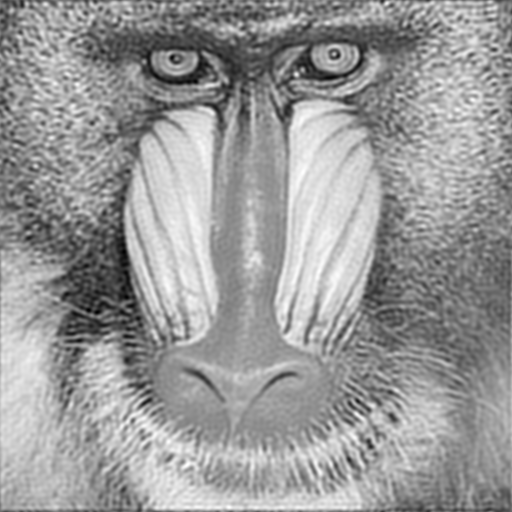
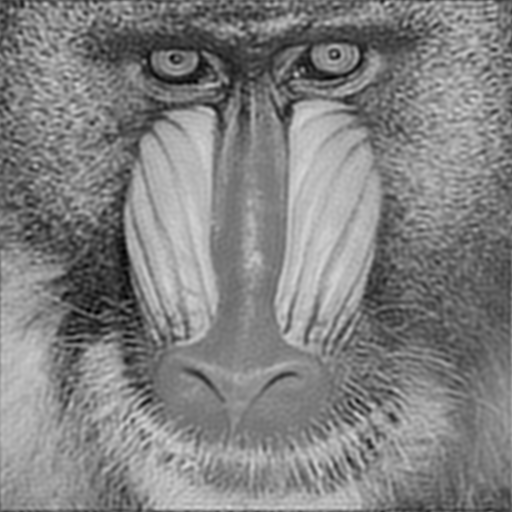
dft to fft

diff --git a/trabalho2/trabalho2.py b/trabalho2/trabalho2.py
@@ -7,23 +7,21 @@ from scipy.ndimage import rotate
 
 #aplicando transformada de fourier na imagem
 def fourier_transform(img):
-    dft = cv2.dft(np.float32(img), flags = cv2.DFT_COMPLEX_OUTPUT)
-    dft_shift = np.fft.fftshift(dft)
-    magnitude_spectrum = 20*np.log(cv2.magnitude(dft_shift[:,:,0], dft_shift[:,:,1]))
+    fft = np.fft.fft2(img)
+    fft_shift = np.fft.fftshift(fft)
+    magnitude_spectrum = 20*np.log(np.abs(fft_shift))
 
-    return dft, dft_shift, magnitude_spectrum
+    return fft, fft_shift, magnitude_spectrum
 
 #aplicando transformada reversa de fourier
-def frequency_to_espacial_domain(dft, shifted=True):
+def frequency_to_espacial_domain(fft, shifted=True):
     if shifted:
-        ifftshift = np.fft.ifftshift(dft)
+        ifftshift = np.fft.ifftshift(fft)
     else:
-        ifftshift = dft
-    espacial_img = cv2.idft(ifftshift)
-    espacial_img = cv2.magnitude(espacial_img[:,:,0], espacial_img[:,:,1])
-    espacial_img = cv2.normalize(espacial_img, None, 0, 255, cv2.NORM_MINMAX, cv2.CV_8U)
+        ifftshift = fft
+    espacial_img = np.fft.ifft2(ifftshift)
 
-    return espacial_img
+    return np.abs(espacial_img)
 
 #criação dos kernels
 def create_filters(img):
@@ -46,10 +44,10 @@ def create_filters(img):
     return passa_baixa, passa_faixa, passa_alta
 
 #aplica filtro à imagem em domínio de frequência
-def apply_filter(dft_shift, magnitude_spectrum, filter):
-    filtered_spectrum = cv2.bitwise_and(magnitude_spectrum, magnitude_spectrum, mask=filter)
+def apply_filter(fft_shift, magnitude_spectrum, filter):
+    filtered_spectrum = magnitude_spectrum * filter
 
-    filtered = cv2.bitwise_and(dft_shift, dft_shift, mask=filter)
+    filtered = fft_shift * filter
     filtered_img = frequency_to_espacial_domain(filtered)
 
     return filtered_spectrum, filtered_img
@@ -60,10 +58,10 @@ def rotate_img(img, angle):
     return rotated_img
 
 #aplica compressão à imagem em domínio de frequência
-def compress_img(dft, epsilon):
-    magnitude_spectrum = np.log(cv2.magnitude(dft[:,:,0], dft[:,:,1]))
-    dft[abs(magnitude_spectrum) < epsilon] = 0
-    return frequency_to_espacial_domain(dft, shifted=False)
+def compress_img(fft, epsilon):
+    magnitude_spectrum = np.log(np.abs(fft))
+    fft[abs(magnitude_spectrum) < epsilon] = 0
+    return frequency_to_espacial_domain(fft, shifted=False)
 
 def main():
     #read args
@@ -91,27 +89,26 @@ def main():
     #read image
     img = cv2.imread(img_name, 0)
 
-    dft, dft_shift, magnitude_spectrum = fourier_transform(img)
+    fft, fft_shift, magnitude_spectrum = fourier_transform(img)
     cv2.imwrite(output_filename[:-4]+"_espectro_magnitude"+output_filename[-4:], magnitude_spectrum)
-
 
     #aplicação dos filtros
     passa_baixa, passa_faixa, passa_alta = create_filters(img)
 
-    filtered_spectrum, filtered_img = apply_filter(dft_shift, magnitude_spectrum, passa_baixa)
+    filtered_spectrum, filtered_img = apply_filter(fft_shift, magnitude_spectrum, passa_baixa)
     cv2.imwrite(output_filename[:-4]+"_kernel_passa_baixa"+output_filename[-4:], filtered_spectrum)
     cv2.imwrite(output_filename[:-4]+"_passa_baixa"+output_filename[-4:], filtered_img)
 
-    filtered_spectrum, filtered_img = apply_filter(dft_shift, magnitude_spectrum, passa_faixa)
+    filtered_spectrum, filtered_img = apply_filter(fft_shift, magnitude_spectrum, passa_faixa)
     cv2.imwrite(output_filename[:-4]+"_kernel_passa_faixa"+output_filename[-4:], filtered_spectrum)
     cv2.imwrite(output_filename[:-4]+"_passa_faixa"+output_filename[-4:], filtered_img)
 
-    filtered_spectrum, filtered_img = apply_filter(dft_shift, magnitude_spectrum, passa_alta)
+    filtered_spectrum, filtered_img = apply_filter(fft_shift, magnitude_spectrum, passa_alta)
     cv2.imwrite(output_filename[:-4]+"_kernel_passa_alta"+output_filename[-4:], filtered_spectrum)
     cv2.imwrite(output_filename[:-4]+"_passa_alta"+output_filename[-4:], filtered_img)
 
     #compressão
-    compressed_img = compress_img(dft, compress_factor)
+    compressed_img = compress_img(fft, compress_factor)
     cv2.imwrite(output_filename[:-4]+"_compressao"+output_filename[-4:], compressed_img)
 
     #rotação
@@ -119,7 +116,7 @@ def main():
     cv2.imwrite(output_filename[:-4]+"_rotacao"+output_filename[-4:], rotated_img)
 
     #espectro rotação
-    dft, dft_shift, magnitude_spectrum = fourier_transform(rotated_img)
+    fft, fft_shift, magnitude_spectrum = fourier_transform(rotated_img)
     cv2.imwrite(output_filename[:-4]+"_espectro_magnitude_rotacao"+output_filename[-4:], magnitude_spectrum)
 
 if __name__ == "__main__":
